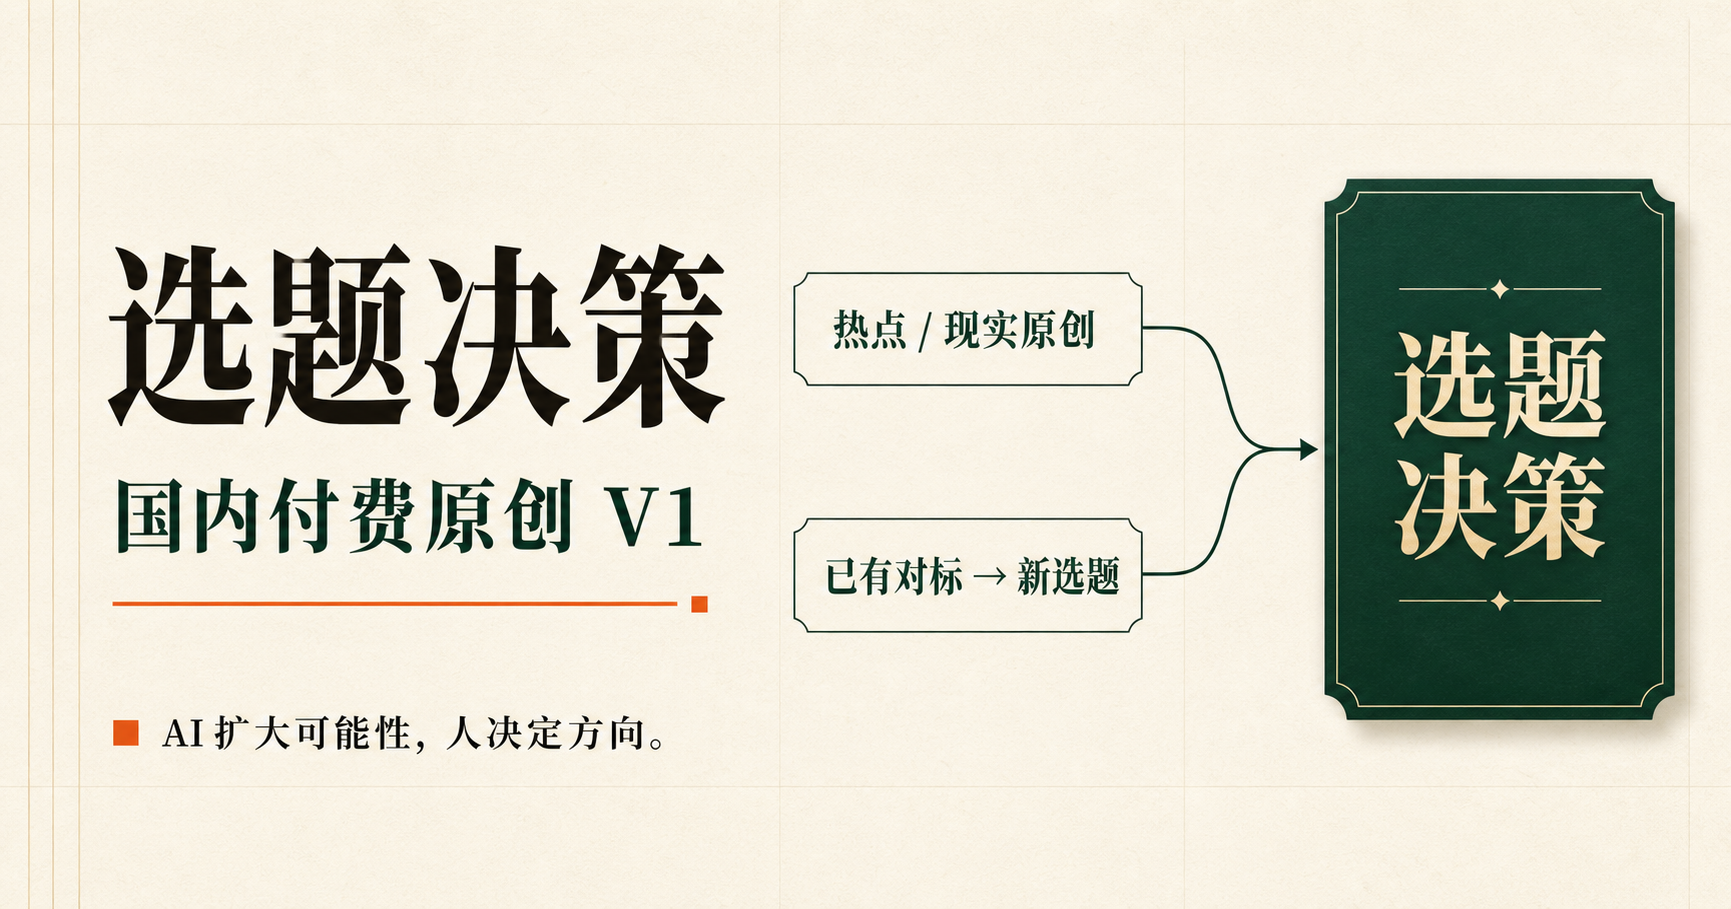
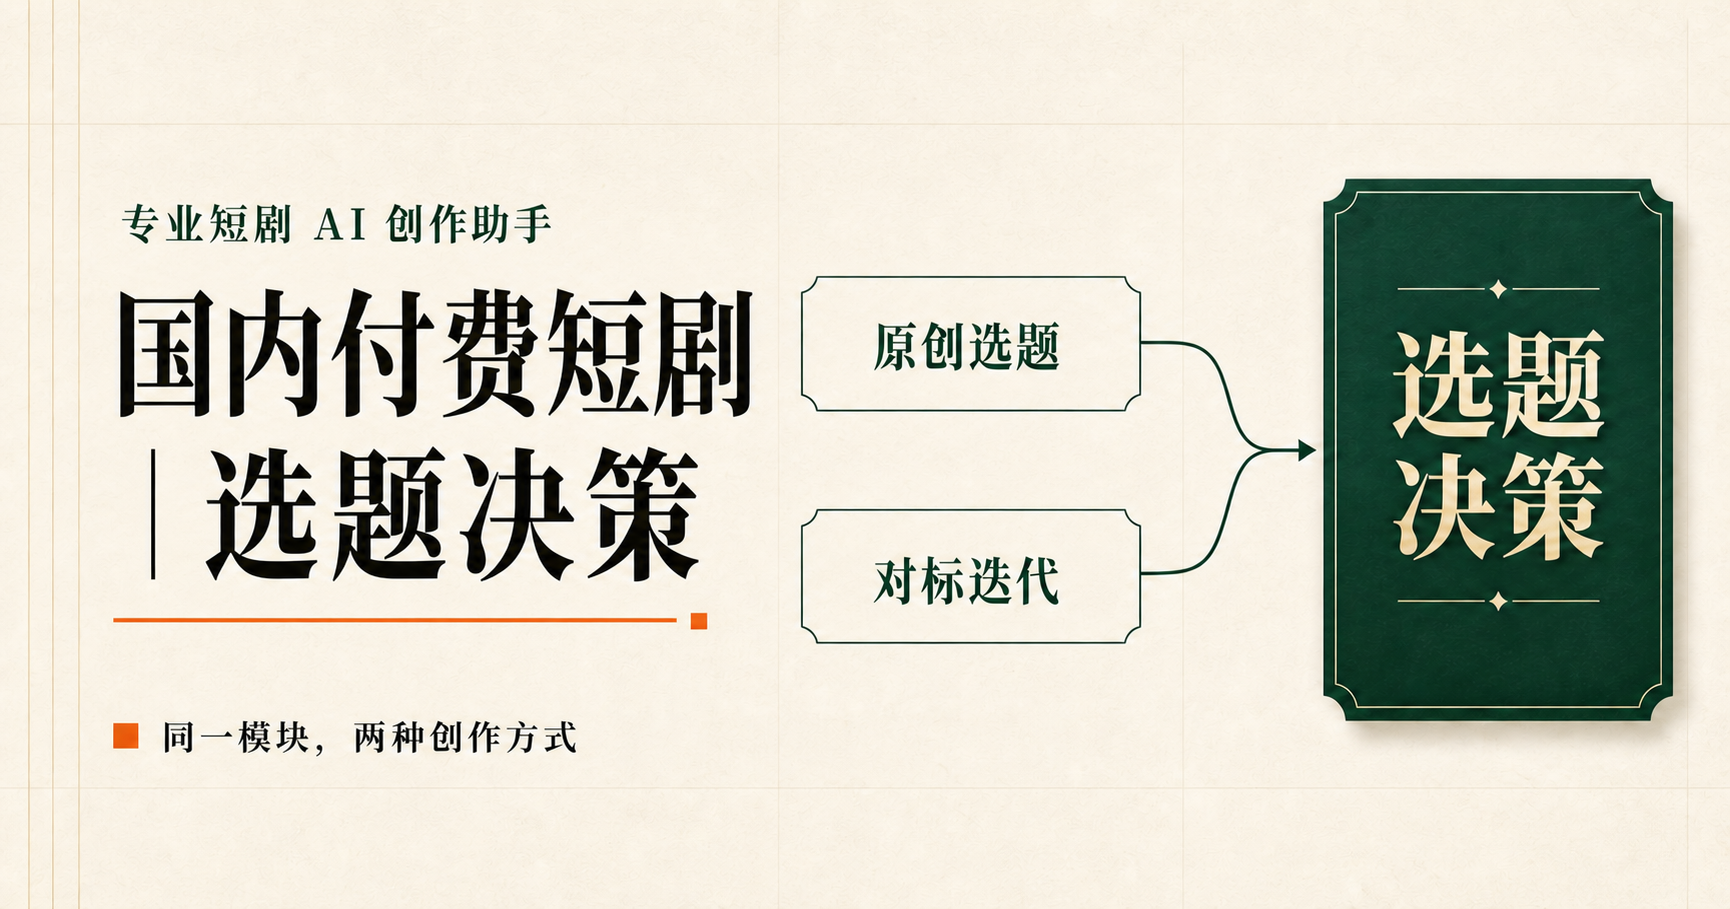
Polish competition presentation branding

diff --git a/app/TopicStudio.tsx b/app/TopicStudio.tsx
@@ -320,7 +320,7 @@ export default function TopicStudio() {
     if (state.screen === "route") return <RouteChoice onChoose={chooseRoute} />;
     if (state.screen === "a_source") {
       return (
-        <Panel eyebrow="A｜热点 / 现实原创" title="从一条现实原料开始" description="让 AI 找近期热点，或直接使用你手里的现实素材。自己有素材时不会被强制重新搜索。">
+        <Panel eyebrow="A｜原创选题" title="从一条现实原料开始" description="在国内付费短剧框架下，让 AI 找近期热点，或直接使用你手里的现实素材。自己有素材时不会被强制重新搜索。">
           <div className="action-grid">
             <button className="route-card compact" onClick={loadHotspots} disabled={loading}>
               <span className="route-index">A1</span><strong>AI 帮我找近期热点</strong><small>检索后只展示少量真正有戏的候选</small>
@@ -356,7 +356,7 @@ export default function TopicStudio() {
     }
     if (state.screen === "b_source") {
       const lookup = state.draft.benchmarkLookup as { alternatives?: ChoiceOption[]; message?: string } | undefined;
-      return <Panel eyebrow="B｜已有对标 → 新选题" title="你想学习哪一部作品？" description="最低只需要作品名。AI 会先查选题级公开资料，同名或多版本时才请你确认。"><div className="focus-card"><label htmlFor="benchmark">作品名</label><input id="benchmark" value={freeText} onChange={(event) => setFreeText(event.target.value)} placeholder="例如：《人面桃花长相忆》；也可补充平台或主角" /><p>不需要先写一篇对标分析。</p><div className="sample-row"><span>比赛示范</span>{BENCHMARK_CASES.map((title) => <button type="button" key={title} onClick={() => setFreeText(title)}>{title}</button>)}</div></div>{lookup?.alternatives && lookup.alternatives.length > 0 && <div className="lookup-options"><strong>找到多个可能版本，请确认：</strong>{lookup.alternatives.map((item) => <button className="secondary" key={item.id} onClick={() => decomposeTitle(item.title)}>{item.title} — {item.summary}</button>)}</div>}<button className="primary" onClick={decomposeBenchmark} disabled={loading || !freeText.trim()}>识别并拆解</button></Panel>;
+      return <Panel eyebrow="B｜对标迭代" title="你想学习哪一部作品？" description="从成熟爆款出发，理解其有效机制，再通过对标置换或选题升级形成国内付费短剧新选题。最低只需要作品名。"><div className="focus-card"><label htmlFor="benchmark">作品名</label><input id="benchmark" value={freeText} onChange={(event) => setFreeText(event.target.value)} placeholder="例如：《人面桃花长相忆》；也可补充平台或主角" /><p>不需要先写一篇对标分析。</p><div className="sample-row"><span>比赛示范</span>{BENCHMARK_CASES.map((title) => <button type="button" key={title} onClick={() => setFreeText(title)}>{title}</button>)}</div></div>{lookup?.alternatives && lookup.alternatives.length > 0 && <div className="lookup-options"><strong>找到多个可能版本，请确认：</strong>{lookup.alternatives.map((item) => <button className="secondary" key={item.id} onClick={() => decomposeTitle(item.title)}>{item.title} — {item.summary}</button>)}</div>}<button className="primary" onClick={decomposeBenchmark} disabled={loading || !freeText.trim()}>识别并拆解</button></Panel>;
     }
     if (state.screen === "b_breakdown") {
       const breakdown = state.draft.breakdown as BenchmarkBreakdown;
@@ -383,13 +383,13 @@ export default function TopicStudio() {
   return (
     <main className="studio-shell">
       <header className="topbar">
-        <div className="brand"><span className="brand-mark">题</span><div><strong>选题决策</strong><small>国内付费原创 V1</small></div></div>
+        <div className="brand"><span className="brand-mark">剧</span><div><strong>专业短剧 AI 创作助手</strong><small>国内付费短剧｜选题决策</small></div></div>
         {state.route && <button className="text-button" onClick={reset}>重新开始</button>}
       </header>
 
       {state.route && (
         <div className="progress-wrap" aria-label={`当前进度 ${progress}%`}>
-          <div className="progress-copy"><span>{state.route === "A" ? "热点 / 现实原创" : "已有对标 → 新选题"}</span><span>{progress}%</span></div>
+          <div className="progress-copy"><span>{state.route === "A" ? "原创选题" : "对标迭代"}</span><span>{progress}%</span></div>
           <div className="progress-track"><span style={{ width: `${progress}%` }} /></div>
           <div className="step-row">{steps.map(([id, label], index) => <span key={id} className={index <= currentIndex ? "active" : ""}>{label}</span>)}</div>
         </div>
@@ -402,19 +402,19 @@ export default function TopicStudio() {
         <div className="demo-banner"><strong>本机 Codex 模式</strong><span>当前使用已登录的 ChatGPT 账号生成{state.modelName ? ` · ${state.modelName}` : ""}。</span></div>
       )}
       {state.modelMode === "live" && (
-        <div className="live-banner"><strong>真实生成模式</strong><span>当前结果来自云端模型{state.modelName ? ` · ${state.modelName}` : ""}；A 路线热点与 B 路线作品识别会读取公开网络资料。</span></div>
+        <div className="live-banner"><strong>真实生成模式</strong><span>当前结果来自云端模型{state.modelName ? ` · ${state.modelName}` : ""}；原创选题的热点检索与对标迭代的作品识别会读取公开网络资料。</span></div>
       )}
 
       <section className="workspace">{screen}</section>
       {loading && <div className="generating" role="status"><span /><div><strong>AI 正在处理当前步骤</strong><small>已确认的内容不会被改写</small></div></div>}
       {error && <div className="error-toast" role="alert">{error}</div>}
-      <footer className="site-footer"><span>AI 扩大可能性，人决定方向。</span><span>当前只做到选题汇报卡</span></footer>
+      <footer className="site-footer"><span>AI 扩大可能性，人决定方向。</span><span>当前开放：国内付费短剧｜选题决策</span></footer>
     </main>
   );
 }
 
 function RouteChoice({ onChoose }: { onChoose: (route: "A" | "B") => void }) {
-  return <div className="hero"><div className="hero-copy"><span className="eyebrow">选题决策｜国内付费原创 V1</span><span className="showcase-badge">真实生成 · 演示兜底</span><h1>今天，我们到底<br />写什么？</h1><p>输入新的现实素材或任意对标作品。AI 负责联网检索、拆解和发散，每个关键方向仍由你确认。</p><div className="case-note"><strong>真实模式优先</strong><span>云端服务不可用时，自动使用 4 个回归案例保证比赛流程可继续体验。</span></div></div><div className="route-stack"><button className="route-card" onClick={() => onChoose("A")}><span className="route-index">路线 A</span><strong>热点 / 现实原创</strong><p>实时寻找近期公开热点，或从你输入的现实事件中提炼真正有戏的创作切口。</p><span className="route-link">开始寻找新选题 <b>→</b></span></button><button className="route-card dark" onClick={() => onChoose("B")}><span className="route-index">路线 B</span><strong>已有对标 → 新选题</strong><p>输入作品名，先搜索并识别作品，再做功能级置换或更深的选题升级。</p><span className="route-link">从一部作品开始 <b>→</b></span></button></div></div>;
+  return <div className="hero"><div className="hero-copy"><span className="eyebrow">专业短剧 AI 创作助手</span><span className="showcase-badge">当前开放模块</span><h1>国内付费短剧<br />选题决策</h1><p>这是同一个国内付费选题模块的两种创作方式：从热点与现实素材创造原创选题，或从成熟爆款出发做对标迭代。AI 负责检索、拆解和发散，每个关键方向仍由你确认。</p><div className="case-note"><strong>真实生成 · 演示兜底</strong><span>云端服务不可用时，自动使用 4 个回归案例保证完整流程可继续体验。</span></div></div><div className="route-stack"><div className="route-group-label"><strong>选择一种创作方式</strong><span>两种入口共享同一套国内付费选题决策框架，并统一输出选题汇报卡。</span></div><button className="route-card" onClick={() => onChoose("A")}><span className="route-index">创作方式 A</span><strong>原创选题</strong><p>在国内付费短剧框架下，从近期热点、现实事件或你手里的素材出发，创造一个全新的选题。</p><span className="route-link">从现实原料开始 <b>→</b></span></button><button className="route-card dark" onClick={() => onChoose("B")}><span className="route-index">创作方式 B</span><strong>对标迭代</strong><p>从已有成熟爆款出发，理解其有效机制，再通过对标置换或选题升级形成一个新选题。</p><span className="route-link">从成熟作品开始 <b>→</b></span></button></div></div>;
 }
 
 function Panel({ eyebrow, title, description, children }: { eyebrow: string; title: string; description: string; children: React.ReactNode }) {

diff --git a/app/globals.css b/app/globals.css
@@ -66,6 +66,9 @@ button:focus-visible, input:focus-visible, textarea:focus-visible { outline: 3px
 .case-note { display: grid; gap: 6px; margin-top: 26px; padding-left: 14px; border-left: 3px solid var(--orange); font-size: 12px; }
 .case-note span { color: var(--muted); line-height: 1.6; }
 .route-stack { display: grid; gap: 18px; }
+.route-group-label { display: grid; gap: 5px; padding: 0 4px 2px; }
+.route-group-label strong { font-size: 15px; letter-spacing: .04em; }
+.route-group-label span { color: var(--muted); font-size: 12px; line-height: 1.6; }
 .route-card { border: 1px solid var(--line); border-radius: 24px; padding: 30px; background: var(--card); text-align: left; box-shadow: var(--shadow); cursor: pointer; transition: transform .2s ease, box-shadow .2s ease, border-color .2s ease; }
 button.route-card:hover { transform: translateY(-4px); border-color: var(--orange); box-shadow: 0 22px 65px rgba(52,39,24,.14); }
 .route-card.dark { color: white; background: var(--green); border-color: var(--green); }
@@ -197,6 +200,8 @@ button:disabled { opacity: .45; cursor: not-allowed; transform: none !important;
 }
 
 @media (max-width: 520px) {
+  .brand strong { font-size: 14px; }
+  .brand small { font-size: 9px; letter-spacing: .07em; }
   .workspace { width: min(100% - 28px, 1180px); padding-top: 38px; }
   .progress-wrap { padding-left: 14px; padding-right: 14px; }
   .route-card, .candidate-card { padding: 22px; border-radius: 18px; }

diff --git a/app/layout.tsx b/app/layout.tsx
@@ -7,8 +7,8 @@ export async function generateMetadata(): Promise<Metadata> {
   const host = requestHeaders.get("x-forwarded-host") || requestHeaders.get("host") || "localhost:3000";
   const protocol = requestHeaders.get("x-forwarded-proto") || (host.includes("localhost") ? "http" : "https");
   const origin = `${protocol}://${host}`;
-  const title = "选题决策｜国内付费原创 V1";
-  const description = "从现实热点或成熟爆款出发，完成可确认、可校准的国内付费短剧选题决策。";
+  const title = "专业短剧 AI 创作助手｜国内付费短剧｜选题决策";
+  const description = "国内付费短剧选题模块，提供原创选题与对标迭代两种并列创作方式。";
 
   return {
     metadataBase: new URL(origin),
@@ -19,7 +19,7 @@ export async function generateMetadata(): Promise<Metadata> {
       description,
       type: "website",
       url: origin,
-      images: [{ url: `${origin}/og.png`, width: 1731, height: 909, alt: "选题决策｜国内付费原创 V1" }],
+      images: [{ url: `${origin}/og.png`, width: 1730, height: 909, alt: "专业短剧 AI 创作助手｜国内付费短剧｜选题决策" }],
     },
     twitter: {
       card: "summary_large_image",

diff --git a/README.md b/README.md
@@ -1,8 +1,10 @@
-# 选题决策｜国内付费原创 V1
+# 专业短剧 AI 创作助手｜国内付费短剧｜选题决策
 
 > AI 项目比赛稳定版：`competition-v1.0.0`
 
-这是一个面向国内付费短剧原创选题的可交互 Web 产品。它解决的不是“替用户自动写完整剧本”，而是帮助创作者从热点、现实素材或成熟对标作品出发，经过多轮人工确认，得到可以直接讨论的选题方案。
+产品总定位为“专业短剧 AI 创作助手”。当前开放“国内付费短剧｜选题决策”模块，帮助创作者从热点、现实素材或成熟对标作品出发，经过多轮人工确认，得到可以直接讨论的选题方案。
+
+当前模块包含“原创选题”和“对标迭代”两个并列入口。它们是同一个国内付费选题模块的两种创作方式，共享选题决策框架并统一输出选题汇报卡。
 
 项目严格停在选题层，不进入一卡、全剧架构、分集或正文。
 
@@ -22,13 +24,13 @@
 
 ## 两条体验入口
 
-### 路线 A：热点 / 现实原创
+### A｜原创选题
 
 可以让 AI 联网寻找近期热点，也可以直接输入自己的现实素材。
 
 热点或素材 → 核心炸点 → 付费情绪框架 → 核心情绪回报 → 同轴放大 → 创意升级 → 候选选题 → 统一选题汇报卡。
 
-### 路线 B：已有对标 → 新选题
+### B｜对标迭代
 
 原则上只需输入作品名。系统会搜索公开资料；遇到同名或多版本时先让用户确认。
 
